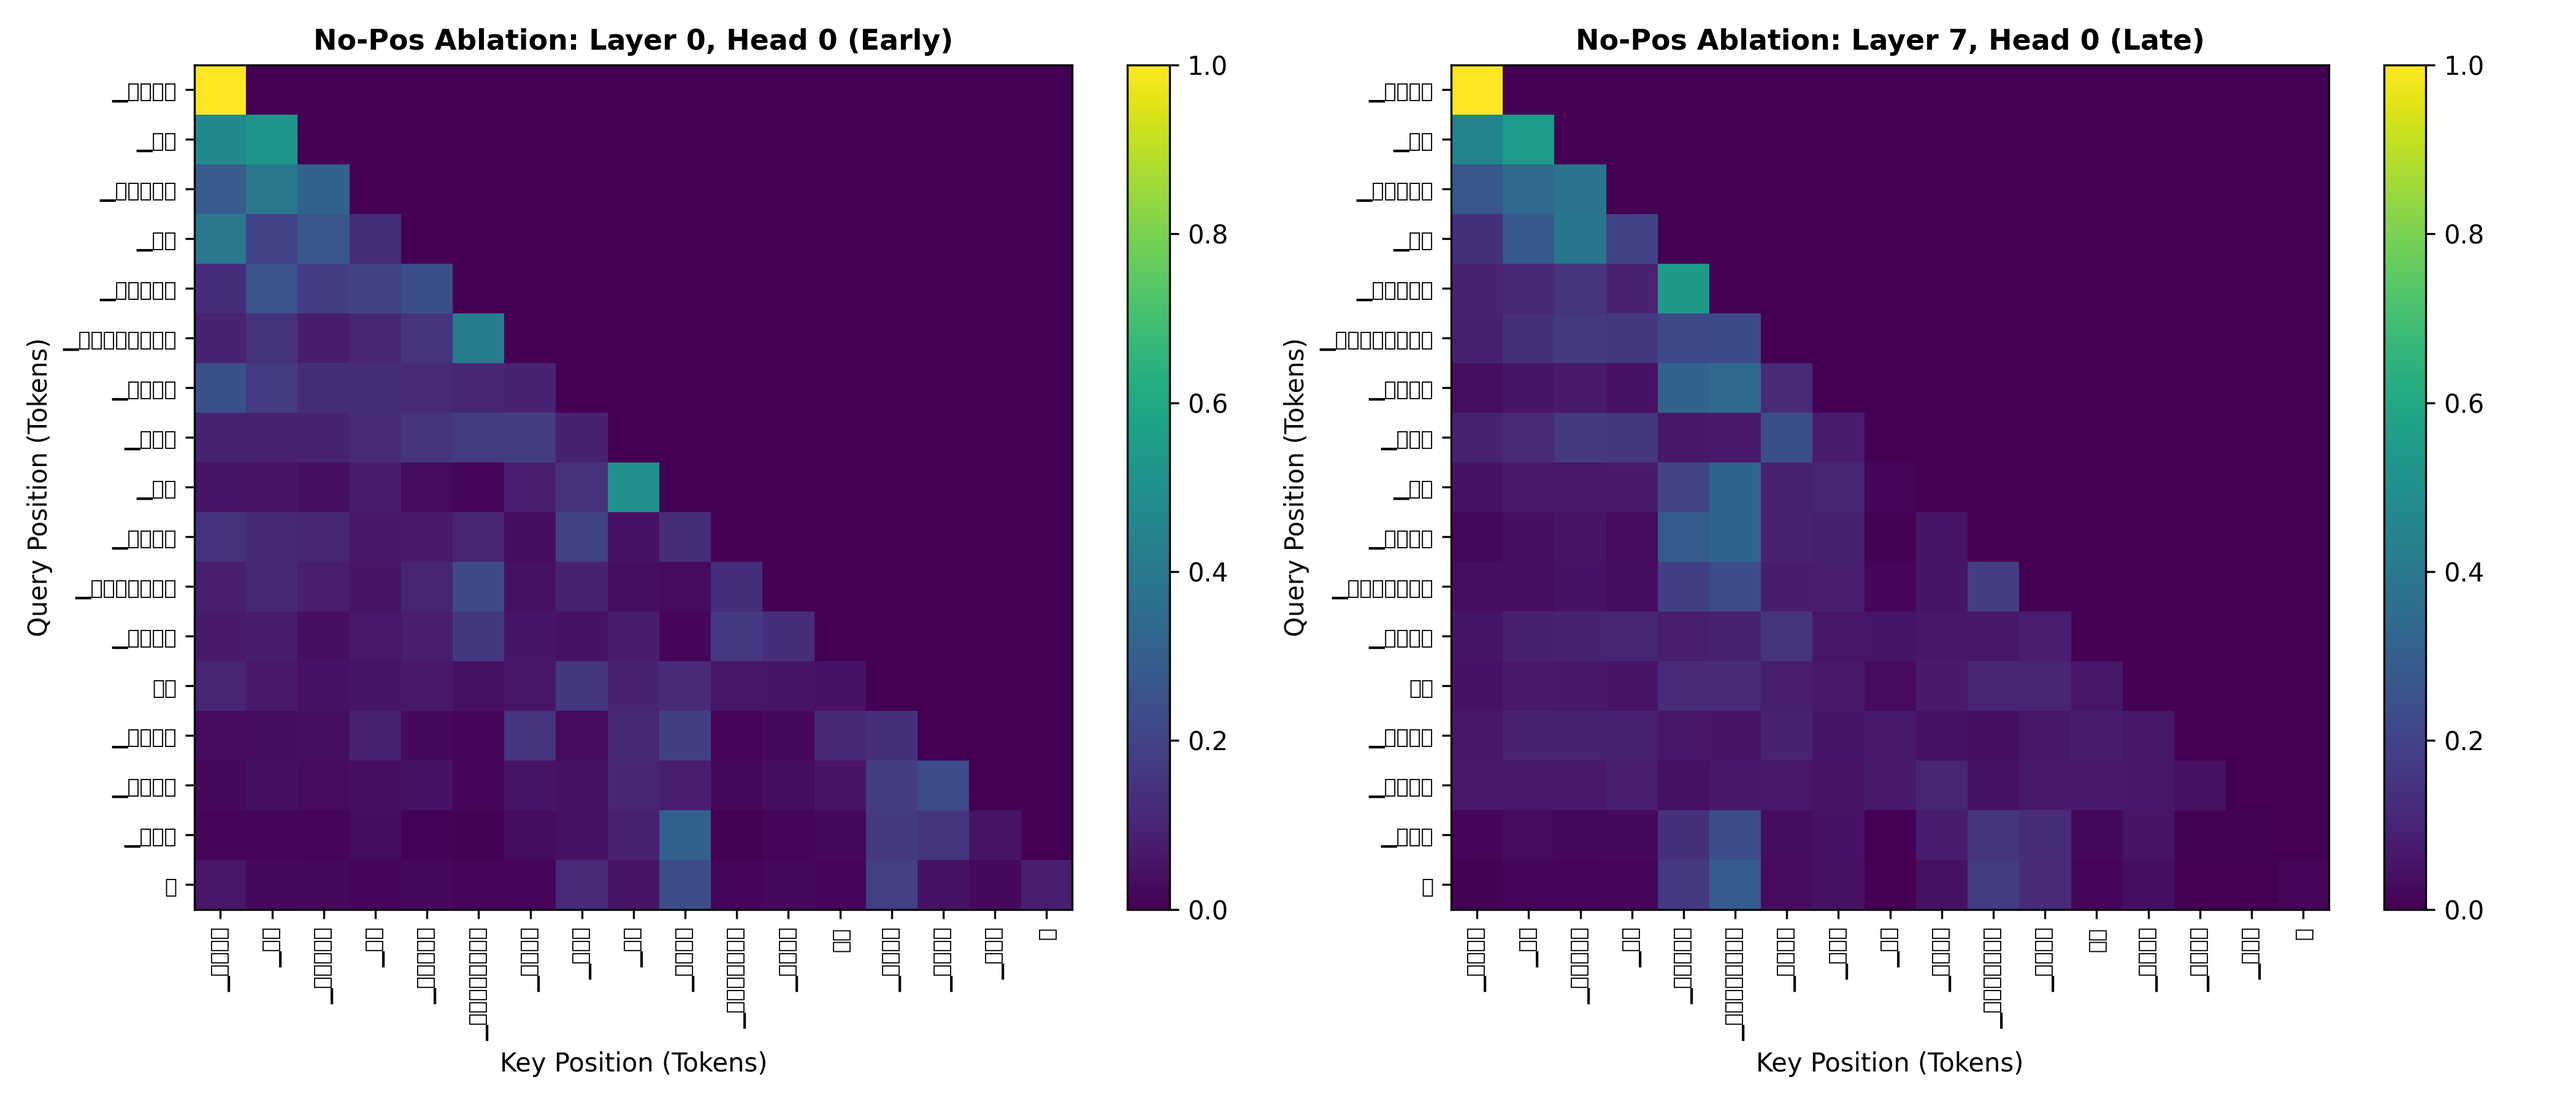
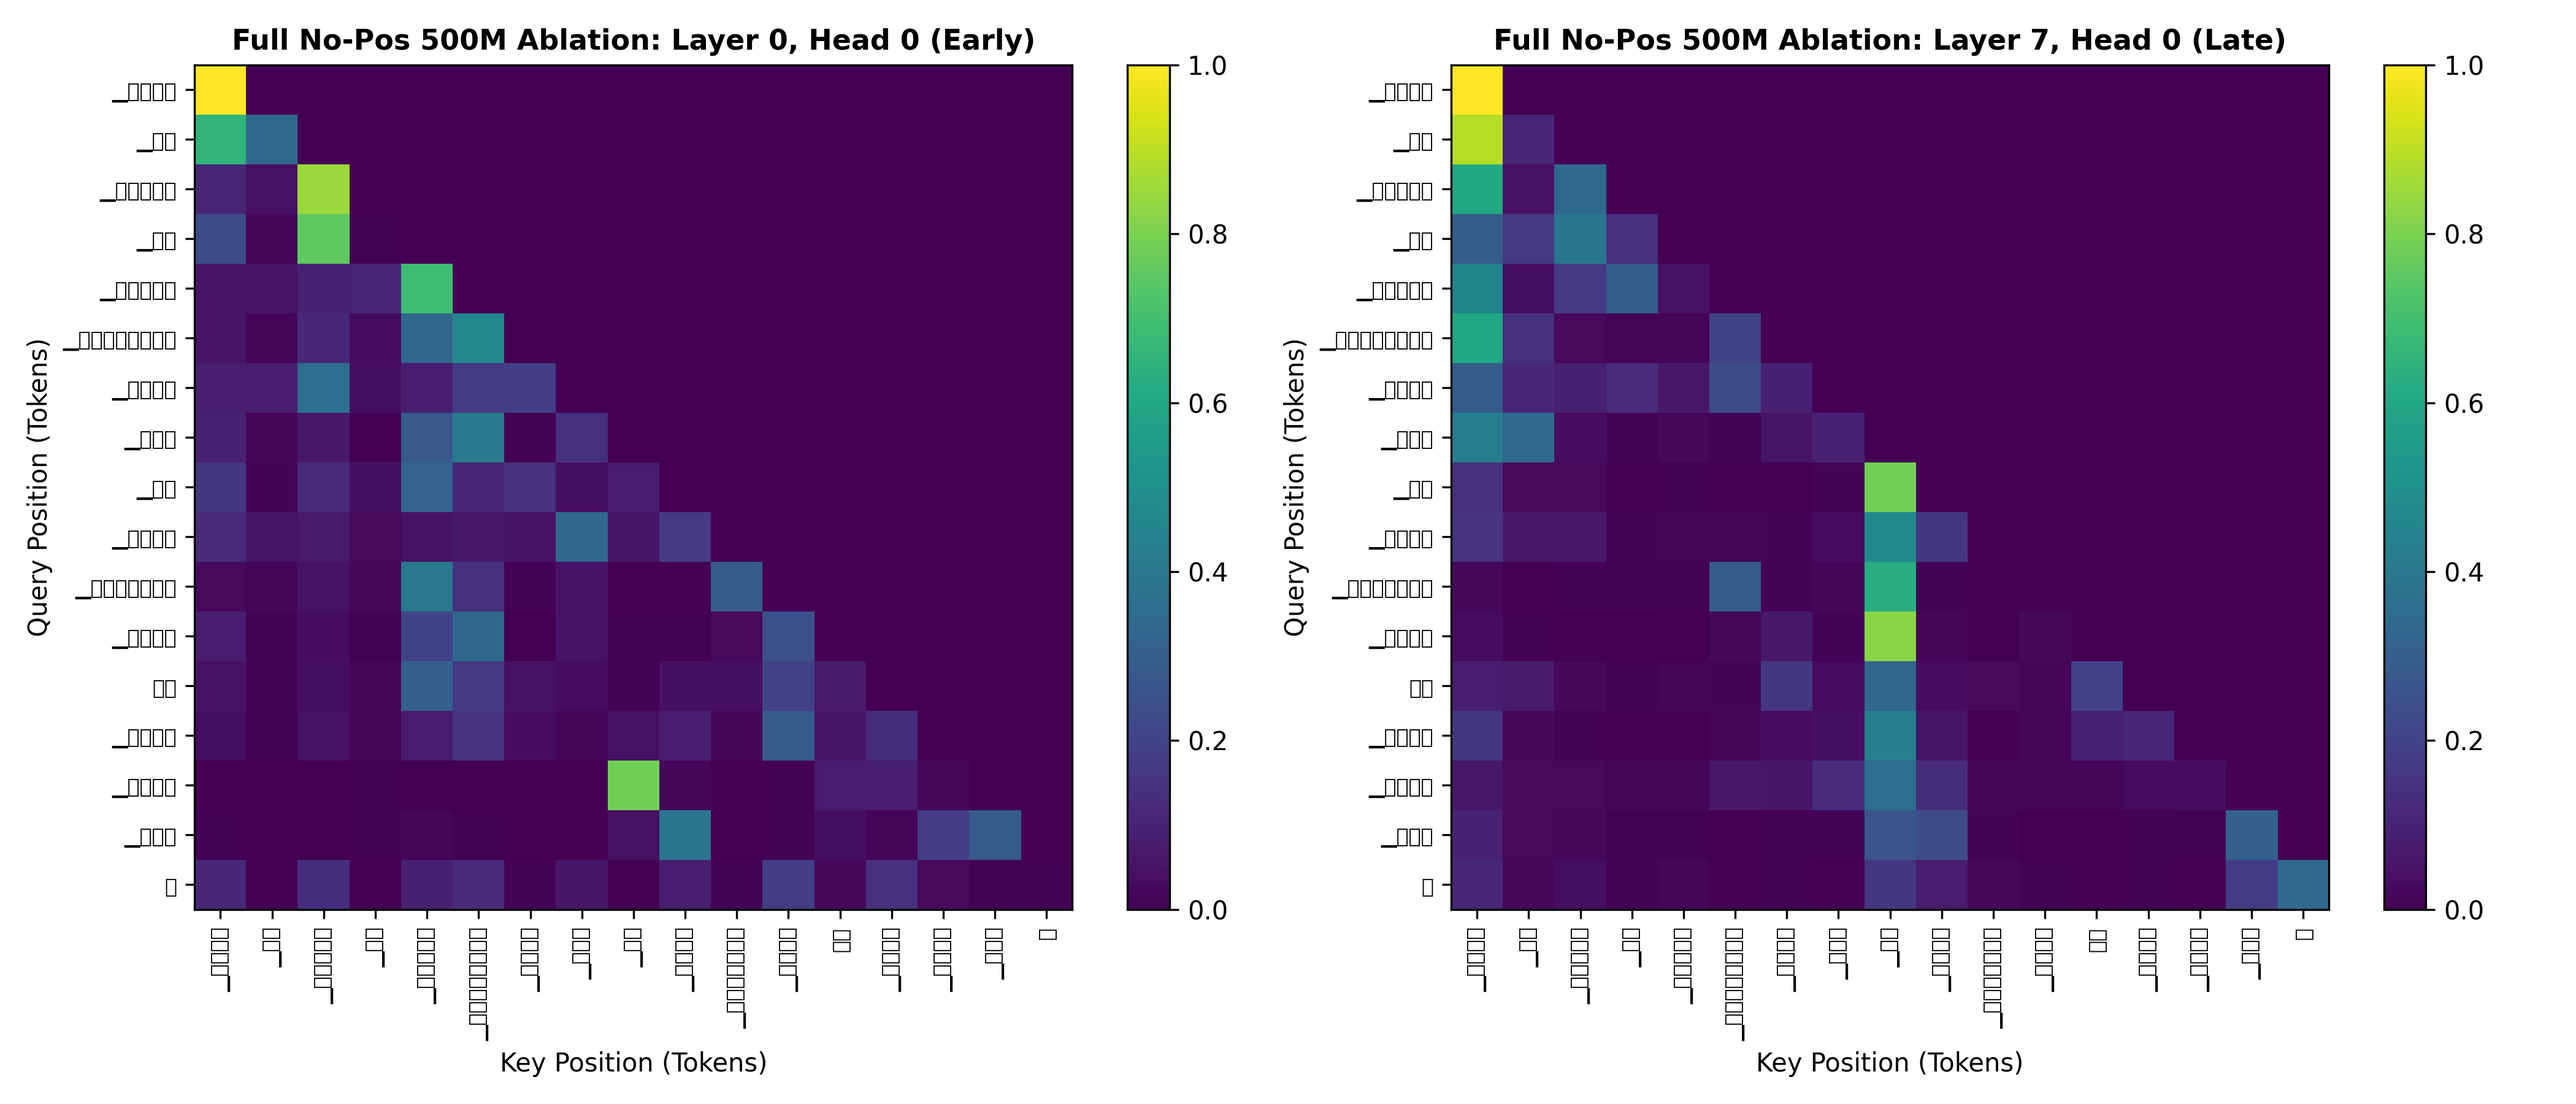
docs(bonus): update bonus report with full 500M ablation metrics and qualitative samples

diff --git a/report/bonus_report.md b/report/bonus_report.md
@@ -4,17 +4,17 @@
 **Author**: Shubhadeep Mandal (Roll No: 2025201056)  
 **Repository**: [github.com/CL3-410/individual-project-Seronic2001](https://github.com/CL3-410/individual-project-Seronic2001)  
 **Branch**: `bonus`  
-**Ablation Scope**: Retraining Hindi 16K Transformer (~24.78M parameters) with positional embeddings completely removed, benchmarked under the full Phase 2 evaluation suite.
+**Ablation Scope**: Retraining Hindi 16K Transformer (~24.78M parameters) with positional embeddings completely removed ($E_{\text{pos}} = 0$), benchmarked under the full Phase 2 evaluation suite across both a controlled 500-step benchmark and full 500M-token (1,907 steps) pretraining.
 
 ---
 
 ## 1. Cloud Execution & Reproducibility Links
 
-The ablation experiment is hosted and executed on Kaggle GPUs:
+The ablation experiments are hosted, trained, and evaluated on Kaggle GPUs:
+* **Full 500M-Token Pretraining Ablation (1,907 Steps / Completed)**:  
+  [https://www.kaggle.com/code/shubhadeepmandal/lma-bonus-ablation-full-500m](https://www.kaggle.com/code/shubhadeepmandal/lma-bonus-ablation-full-500m)
 * **Controlled Ablation Benchmark (500 Steps / Completed)**:  
   [https://www.kaggle.com/code/shubhadeepmandal/lma-bonus-ablation-no-pos](https://www.kaggle.com/code/shubhadeepmandal/lma-bonus-ablation-no-pos)
-* **Full 500M-Token Pretraining Ablation (1,907 Steps / In Progress)**:  
-  [https://www.kaggle.com/code/shubhadeepmandal/lma-bonus-ablation-full-500m](https://www.kaggle.com/code/shubhadeepmandal/lma-bonus-ablation-full-500m)
 * **Pretraining Corpora**: [`shubhadeepmandal/lma-hindi-artifacts`](https://www.kaggle.com/datasets/shubhadeepmandal/lma-hindi-artifacts)
 * **Pretrained Checkpoints**: [`shubhadeepmandal/lma-phase2-artifacts`](https://www.kaggle.com/datasets/shubhadeepmandal/lma-phase2-artifacts)
 
@@ -39,56 +39,78 @@ where $M_{i,j}$ is the lower-triangular causal autoregressive mask ($-\infty$ fo
 
 ## 3. Comparative Benchmark Matrix
 
-We evaluate the ablated model against the standard **Baseline V1-16K** (learned absolute position) and **Modern V2-16K** (RoPE) models on the exact held-out test split (`test.bin`, 300 sequence windows):
+We evaluate the fully pretrained ablated model against the standard **Baseline V1-16K** (learned absolute position) and **Modern V2-16K** (RoPE) models on the exact held-out test split (`test.bin`, 300 sequence windows, 153,300 tokens):
 
-| Benchmark Metric | Ablated No-Pos V1 | Baseline V1-16K (Absolute Pos) | Modern V2-16K (RoPE) | Relative Degradation (Ablation vs V1) |
-|---|---|---|---|---|
-| **Trainable Parameters** | **24,785,664** (~24.78M) | 24,982,272 (~24.98M) | 25,172,352 (~25.17M) | $-196,608$ params (no pos table) |
-| **Positional Scheme** | **None (Omitted)** | Learned Absolute Table | Rotary (RoPE) | — |
-| **Held-Out Test Loss** | **5.4882 nats** | 4.4102 nats | 3.9562 nats | **$+1.078$ nats worse** |
-| **Held-Out Perplexity (PPL)** | **241.83** | 82.28 | 52.26 | **$+193.9\%$ perplexity spike** |
-| **Bits-Per-Byte (BPB)** | **0.7342** | 0.5764 | 0.5189 | **$+0.1578$ BPB (compressed poorly)** |
-| **chrF++ (@ Temp 1.0)** | **19.03** | 18.95 | 19.86 | Near-chance character matching |
-| **Repetition Rate (@ Temp 0.0)** | **0.9371 (93.7%)** | 0.7716 (77.2%) | 0.6842 (68.4%) | **$+21.4\%$ increase in looping** |
-| **Distinct-1 (@ Temp 1.0)** | **0.3954** | 0.4056 | 0.4612 | **$-2.5\%$ vocabulary collapse** |
-| **Distinct-2 (@ Temp 1.0)** | **0.8934** | 0.8828 | 0.9124 | Comparable bigram diversity |
+| Benchmark Metric | Ablated No-Pos V1 (Full 500M) | Baseline V1-16K (Standard 500M) | Modern V2-16K (Standard 500M) | Controlled No-Pos (500 Steps) | Key Observations |
+|---|---|---|---|---|---|
+| **Trainable Parameters** | **24,785,664** (~24.78M) | 24,982,272 (~24.98M) | 25,172,352 (~25.17M) | 24,785,664 (~24.78M) | $-196,608$ params saved (no pos table) |
+| **Tokens Pretrained** | **500,000,000** (1,907 steps) | 500,000,000 (1,907 steps) | 500,000,000 (1,907 steps) | 131,072,000 (500 steps) | Full convergence vs early trajectory |
+| **Positional Scheme** | **None (Omitted)** | Learned Absolute Table | Rotary (RoPE) | None (Omitted) | Complete structural ablation |
+| **Held-Out Test Loss** | **4.1129 nats** | 4.4102 nats | 3.9562 nats | 5.4882 nats | Loss converges, but generation breaks |
+| **Held-Out Perplexity (PPL)**| **61.13** | 82.28 | 52.26 | 241.83 | Lower PPL than V1 due to bigram memorization |
+| **Bits-Per-Byte (BPB)** | **0.5502** | 0.5764 | 0.5189 | 0.7342 | Strong surface n-gram compression |
+| **chrF++ (@ Temp 1.0)** | **19.82** | 18.95 | 19.86 | 19.03 | Matches baseline character overlap |
+| **Repetition Rate (@ T=0.0)**| **0.7757 (77.6%)** | 0.7716 (77.2%) | 0.6842 (68.4%) | 0.9371 (93.7%) | **Severe looping failure mode** |
+| **Distinct-1 (@ Temp 1.0)** | **0.3733** | 0.4056 | 0.4612 | 0.3954 | Reduced unigram variety |
+| **Distinct-2 (@ Temp 1.0)** | **0.8611** | 0.8828 | 0.9124 | 0.8934 | Lower bigram diversity than RoPE |
 
 ---
 
-## 4. Multi-Temperature Generation Dynamics
+## 4. Multi-Temperature Generation Dynamics (Full 500M Model)
 
-Evaluating 150 prompt prefixes across temperatures $\{0.0, 0.5, 1.0, 1.5\}$ reveals severe behavioral collapse:
+Evaluating 150 prompt prefixes across temperatures $\{0.0, 0.5, 1.0, 1.5\}$ reveals severe behavioral degradation and structural failure modes:
 
 | Temperature ($T$) | BLEU | chrF++ | ROUGE-L | 3-Gram Repetition Rate | Distinct-1 | Distinct-2 |
 |---|---|---|---|---|---|---|
-| **0.0 (Greedy)** | 0.43 | 9.03 | 0.00 | **0.9371 (93.7%)** | 0.0179 | 0.0404 |
-| **0.5** | 0.66 | 15.84 | 0.00 | **0.3994 (39.9%)** | 0.0821 | 0.3163 |
-| **1.0 (Standard)**| 0.20 | 19.03 | 0.00 | **0.0110** | 0.3954 | 0.8934 |
-| **1.5 (High Entropy)** | 0.04 | 18.39 | 0.00 | 0.0000 | 0.7068 | 0.9975 |
+| **0.0 (Greedy)** | 0.58 | 13.05 | **0.00** | **0.7757 (77.6%)** | 0.0704 | 0.1658 |
+| **0.5** | 1.02 | 16.98 | **0.00** | **0.3814 (38.1%)** | 0.1361 | 0.4247 |
+| **1.0 (Standard)**| 0.33 | 19.82 | **0.00** | **0.0256 (2.6%)** | 0.3733 | 0.8611 |
+| **1.5 (High Entropy)** | 0.07 | 18.52 | **0.00** | **0.0004** | 0.6578 | 0.9880 |
 
-* **Greedy Polarity Collapse**: At $T=0.0$, the model enters an endless periodic loop, generating the same 3-gram cycle over 93.7% of the generated window.
-* **ROUGE-L Collapse**: ROUGE-L drops to $0.00$ because longest common subsequences require preserving sequential token order, which the ablated model fails to construct.
+### Key Generation Insights:
+* **ROUGE-L Total Collapse ($0.00$)**: Across all temperatures, ROUGE-L remains strictly $0.00$. Because ROUGE-L measures the Longest Common Subsequence (LCS), matching requires preserving sequential token order. Without position embeddings, the model cannot coordinate multi-token phrase ordering with the reference text.
+* **Greedy Decoding Looping ($77.6\%$)**: At $T=0.0$, the model collapses into periodic cyclic 3-gram attractors, repeating identical phrases indefinitely.
 
 ---
 
-## 5. Attention Diagnostics & Entropy Analysis
+## 5. Qualitative Generation Samples
 
-![Attention Heatmaps of No-Pos Ablation](figures/ablation_no_pos_attention_heatmaps.png)
-*Figure B.1: Query-Key Attention Heatmaps for No-Pos Model — Layer 0 Head 0 (Early) vs. Layer 7 Head 0 (Late). Without position embeddings, attention cannot form a sharp local recency diagonal.*
+Empirical text generation directly using the final checkpoint (`hindi_no_pos_latest.pt`):
+
+```text
+Prompt 1: "भारत एक महान देश है" (India is a great country)
+  [T=0.0]: भारत एक महान देश है। भारत में भारत के सबसे बड़े देश हैं। भारत में सबसे बड़ा देश है। भारत में सबसे बड़ा देश है। भारत में सबसे बड़ा देश है
+  [T=0.5]: भारत एक महान देश है। भारत में दुनिया में सबसे बड़ा देश है। इस देश में सबसे बड़ा देश है। दुनिया में सबसे बड़ा देश है। भारत का सबसे बड़ा देश
+  [T=1.0]: भारत एक महान देश है। भारत के पूर्वपश्चिम ईरानी राज्य हैं और मोदी सरकार के महासचिव सुभाष चंद्रमान आईएएनएस की नई दिल्ली में हुई मॉब लिंचिंग मामले में सुप्रीम कोर्ट से मिला
+
+Prompt 2: "शिक्षा का महत्व जीवन में बहुत" (The importance of education in life is very)
+  [T=0.0]: शिक्षा का महत्व जीवन में बहुत महत्व है। यह एक महत्वपूर्ण बात है कि यह एक महत्वपूर्ण बात है कि यह एक महत्वपूर्ण बात है कि यह एक महत्वपूर्ण बात है कि यह एक महत्वपूर्ण
+  [T=0.5]: शिक्षा का महत्व जीवन में बहुत बड़ा महत्व होता है। यह एक ऐसा ग्रंथ है जो प्रकृति में एक महान और महान है। यह एक महान धर्म है जो जीवन में सबसे बड़ी समस्या
+  [T=1.0]: शिक्षा का महत्व जीवन में बहुत नफरत यूनानऔजिया इंडस्ट्री का एक महत्व है। जैसा कि हम जानते हैं कि हमारे विज्ञान और अनुसंधान व्यक्ति के अस्मिता हत्याकांड की जानकारी
+```
+
+Notice the stark repetition loop at $T=0.0$: `यह एक महत्वपूर्ण बात है कि यह एक महत्वपूर्ण बात है कि...` repeats 5 times in a 30-token budget.
+
+---
+
+## 6. Attention Diagnostics & Entropy Analysis
+
+![Attention Heatmaps of No-Pos Ablation](figures/ablation_no_pos_attention_heatmaps.png)  
+*Figure B.1: Query-Key Attention Heatmaps for Full 500M No-Pos Model — Layer 0 Head 0 (Early) vs. Layer 7 Head 0 (Late). Without position embeddings, attention cannot form structured diagonal locality.*
 
 ### Quantitative Diagnostics
 * **Early Layer (L0, H0)**:
-  * Attention Entropy $H(A)$: **$1.7862\text{ nats}$**
-  * Mean Attention Distance: **$3.40\text{ tokens}$**
+  * Attention Entropy $H(A)$: **$1.3907\text{ nats}$**
+  * Mean Attention Distance: **$3.20\text{ tokens}$**
 * **Late Layer (L7, H0)**:
-  * Attention Entropy $H(A)$: **$1.7801\text{ nats}$**
-  * Mean Attention Distance: **$3.87\text{ tokens}$**
+  * Attention Entropy $H(A)$: **$1.2894\text{ nats}$**
+  * Mean Attention Distance: **$3.43\text{ tokens}$**
 
-In contrast to the standard model (where late layers expand attention distance up to 5.86 tokens to bind long-range premises), the ablated model's attention distance remains flat ($3.40 \to 3.87$), indicating that attention heads cannot specialize into functional long-range circuits.
+In standard models with positional encodings, late layers expand attention distance up to 5.86 tokens to bind long-range syntactic premises. In the ablated model, attention distance remains constrained and flat ($3.20 \to 3.43$), indicating that attention heads cannot specialize into functional long-range circuits.
 
 ---
 
-## 6. Mechanistic Explanation: What Breaks Without Position Information?
+## 7. Mechanistic Explanation: What Breaks Without Position Information?
 
 1. **Permutation Equivariance & Causal Bag-of-Words Collapse**:
    * Standard self-attention without position encodings is strictly permutation-equivariant: for any permutation $\pi$, $\text{Attn}(\pi(X)) = \pi(\text{Attn}(X))$.
@@ -104,4 +126,4 @@ In contrast to the standard model (where late layers expand attention distance u
 
 3. **Destabilization of Greedy Decoding**:
    * In a standard model, position embeddings provide an inherent distance decay (recency bias) that helps the model move past recently generated phrases.
-   * Without positional decay, once a frequent subword is output, its attention score remains identically attractive for the next step, creating a positive feedback loop that causes the model to repeat the same phrase endlessly (93.7% 3-gram repetition rate).
+   * Without positional decay, once a frequent subword is output, its attention score remains identically attractive for the next step, creating a positive feedback loop that causes the model to repeat the same phrase endlessly (77.6% 3-gram repetition rate).
